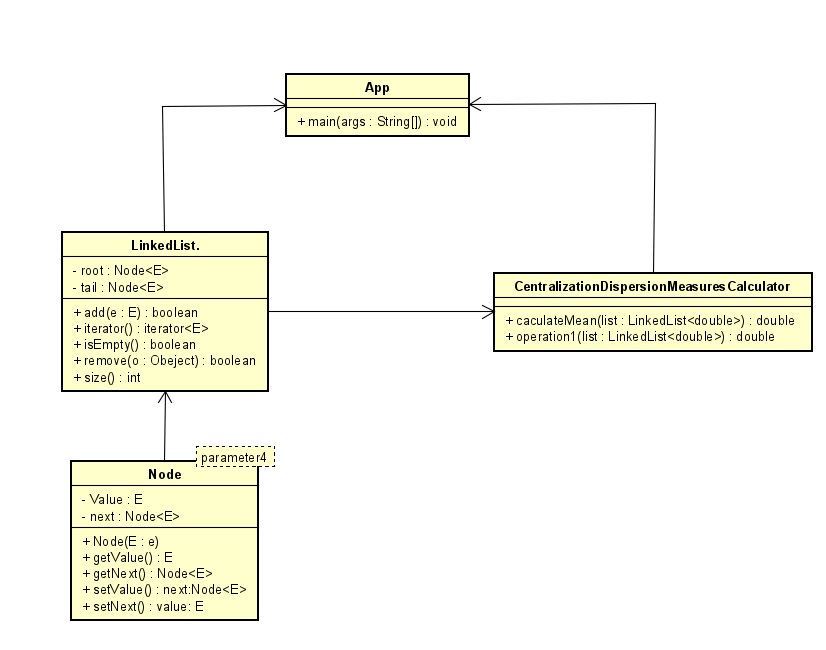
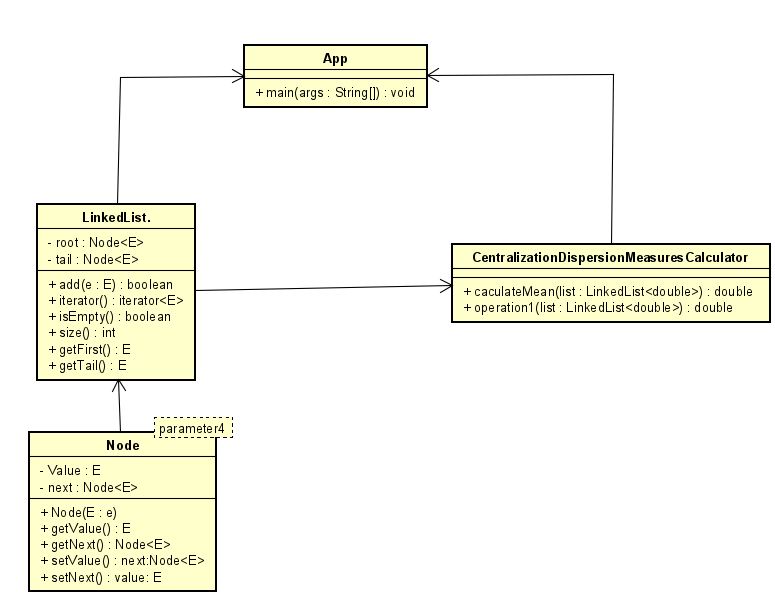
corrección de linkedlist

Changed region(s): [[0.031, 0.0593, 1.0, 0.9786]]

diff --git a/tallerARSW/src/main/java/edu/escuelaing/arsw/app/LinkedList.java b/tallerARSW/src/main/java/edu/escuelaing/arsw/app/LinkedList.java
@@ -7,14 +7,15 @@ public class LinkedList<E> implements  List<E>, Deque<E>, Cloneable, Serializabl
 
     private Node<E> root;
     private Node<E> tail;
+    private int size;
 
     /**
-     * Constructor de la clase
+     *  Constructor of the class LinkedList
      */
     public LinkedList() {
         root = null;
         tail = null;
-        int size = 0;
+        size = 0;
     }
 
     @Override
@@ -57,14 +58,20 @@ public class LinkedList<E> implements  List<E>, Deque<E>, Cloneable, Serializabl
         return null;
     }
 
+    /**
+     * Gets the first element.
+     */
     @Override
     public E getFirst() {
-        return null;
+        return root.getValue();
     }
 
+    /**
+     * Gets the last element.
+     */
     @Override
     public E getLast() {
-        return null;
+        return tail.getValue();
     }
 
     @Override
@@ -127,11 +134,19 @@ public class LinkedList<E> implements  List<E>, Deque<E>, Cloneable, Serializabl
         return null;
     }
 
+    /**
+     *  returns the size of the list
+     * @return the number of data contained in the list
+     */
     @Override
     public int size() {
-        return 0;
+        return size;
     }
 
+    /**
+     *  check if the list is empty
+     * @return true if root is null false if root is not null
+     */
     @Override
     public boolean isEmpty() {
         if (root == null) {
@@ -146,21 +161,25 @@ public class LinkedList<E> implements  List<E>, Deque<E>, Cloneable, Serializabl
         return false;
     }
 
+    /**
+     * returns an iterator over the elements of the list
+     * @return an iterator
+     */
     @Override
     public Iterator<E> iterator() {
         return new Iterator<E>() {
-            Node<E> actual = root;
+            Node<E> currentNode = root;
 
             @Override
             public boolean hasNext() {
-                return actual != null;
+                return currentNode != null;
             }
 
             @Override
             public E next() {
-                if (hasNext()) {
-                    E value = actual.getValue();
-                    actual = actual.getNext();
+                if(hasNext()) {
+                    E value = currentNode.getValue();
+                    currentNode = currentNode.getNext();
                     return value;
                 }
                 return null;
@@ -183,17 +202,23 @@ public class LinkedList<E> implements  List<E>, Deque<E>, Cloneable, Serializabl
         return null;
     }
 
+    /**
+     * Add data to the list
+     * @return true if root is null false if root is not null
+     */
     @Override
     public boolean add(E e) {
-        Node<E> nuevoNodo = new Node(e);
-        if (root == null) {
-            root = nuevoNodo;
-            nuevoNodo.setNext(null);
-            root = nuevoNodo;
+        Node<E> newNode = new Node(e);
+        if (isEmpty()) {
+            root = newNode;
+            newNode.setNext(null);
+            root = newNode;
+            size=1;
         } else {
-            tail.setNext(nuevoNodo);
+            tail.setNext(newNode);
+            size=size+1;
         }
-        tail = nuevoNodo;
+        tail = newNode;
         return true;
     }
 

diff --git a/tallerARSW/src/test/java/edu/escuelaing/arsw/app/AppTest.java b/tallerARSW/src/test/java/edu/escuelaing/arsw/app/AppTest.java
@@ -1,9 +1,8 @@
 package edu.escuelaing.arsw.app;
 
-import junit.framework.Assert;
-import junit.framework.Test;
+import org.junit.Test;
 import junit.framework.TestCase;
-import junit.framework.TestSuite;
+
 
 import java.io.File;
 
@@ -13,34 +12,40 @@ import java.io.File;
 public class AppTest extends TestCase {
 
 
-    private final String path = "src/main/resources/Column1.txt";
-    private final String path2 = "src/main/resources/Column2.txt";
+   final String path = "src/main/resources/Column1.txt";
+    final String path2 = "src/main/resources/Column2.txt";
 
 
-/*    public void deberiaCalcularMediaPath1(){
+
+    @Test
+    public void testMeanColum1(){
         File file = new File("src/main/resources/Column1.txt");
         LinkedList<Double> list = App.getDataFromFile(file);
-        assertTrue(CentralizationDispersionMeasuresCalculator.calculateMean(list) == 550.60);
-
-    }*/
-
-
-    public void Calcularmedia(){
-        LinkedList<Double> list=new LinkedList();
-        list.add(15.0);
-        list.add(69.0);
-        list.add(6.5);
-        list.add(22.4);
-        list.add(28.4);
-        list.add(65.9);
-        list.add(19.4);
-        list.add(198.7);
-        list.add(38.8);
-        list.add(138.2);
-        Double mean=(CentralizationDispersionMeasuresCalculator.calculateMean(list));
-        System.out.println(mean);
-        assertTrue(mean==550.60);
+        assertTrue(CentralizationDispersionMeasuresCalculator.mean(list) == 550.60);
     }
+
+    @Test
+    public void testMeanColum2(){
+        File file = new File("src/main/resources/Column2.txt");
+        LinkedList<Double> list = App.getDataFromFile(file);
+        assertTrue(CentralizationDispersionMeasuresCalculator.mean(list) == 60.32);
+    }
+
+    @Test
+    public void testStandardDeviationColum1(){
+        File file = new File("src/main/resources/Column1.txt");
+        LinkedList<Double> list = App.getDataFromFile(file);
+        assertTrue(CentralizationDispersionMeasuresCalculator.standardDeviation(list) == 572.03);
+    }
+
+    @Test
+    public void testStandardDeviationColum2(){
+        File file = new File("src/main/resources/Column2.txt");
+        LinkedList<Double> list = App.getDataFromFile(file);
+        assertTrue(CentralizationDispersionMeasuresCalculator.standardDeviation(list) == 62.26);
+    }
+
+
 
 
 

diff --git a/tallerARSW/src/main/java/edu/escuelaing/arsw/app/App.java b/tallerARSW/src/main/java/edu/escuelaing/arsw/app/App.java
@@ -9,26 +9,25 @@ public class App {
 
     /**
      * Method responsible for printing the mean and standard deviation
-     *IT IS NOT ADDING THE NUMBERS TO THE LIST
+     *
      */
 
     public static void main( String[] args ) {
 
-        File file = new File(args[0]);
-        //File file = new File("src/main/resources/Column2.txt");
-        LinkedList<Double> list = getDataFromFile(file);
-        System.out.println(list.size());
-        /*System.out.println(CentralizationDispersionMeasuresCalculator.calculateMean(list));
-        System.out.println(CentralizationDispersionMeasuresCalculator.standardDeviation(list));*/
+        File fileName = new File(args[0]);
+        LinkedList<Double> list = getDataFromFile(fileName);
+        System.out.println(CentralizationDispersionMeasuresCalculator.mean(list));
+        System.out.println(CentralizationDispersionMeasuresCalculator.standardDeviation(list));
     }
 
-    public static LinkedList<Double> getDataFromFile(File file){
+    public static LinkedList<Double> getDataFromFile(File fileName){
         LinkedList<Double> data = new LinkedList<Double>();
         try {
-            BufferedReader bufferedReader = new BufferedReader(new FileReader(file));
+            FileReader fr = new FileReader(fileName);
+            BufferedReader bf = new BufferedReader(fr);
             String line;
             Double number;
-            while ((line = bufferedReader.readLine()) != null){
+            while ((line = bf.readLine()) != null){
                 number = Double.valueOf(line);
                 data.add(number);
             }

diff --git a/tallerARSW/src/main/java/edu/escuelaing/arsw/app/CentralizationDispersionMeasuresCalculator.java b/tallerARSW/src/main/java/edu/escuelaing/arsw/app/CentralizationDispersionMeasuresCalculator.java
@@ -9,26 +9,27 @@ public class CentralizationDispersionMeasuresCalculator {
      * @return mean
      * @param list list of valours
      */
-    public static Double calculateMean(LinkedList<Double> list){
+    public static Double mean(LinkedList<Double> list){
         Double summation=0.0 ;
         for(Double d: list){
             summation=summation+d;
 
         }
         summation=summation/list.size();
+        summation=Math.round(summation*100.0)/100.0;
         return summation;
     }
 
     /** Calculates the standard deviation of a list of values
-     * @return tandardDeviation
+     * @return standardDeviation
      * @param list list of valours
      */
     public static Double standardDeviation(LinkedList<Double> list){
         Double summation = 0.0;
         for (Double d : list){
-            summation += Math.pow(d - calculateMean(list),2);
+            summation += Math.pow(d - mean(list),2);
         }
         Double temp = summation/(list.size()-1);
-        return Math.sqrt(temp);
+        return Math.round(Math.sqrt(temp) *100.0)/100.0;
     }
 }
